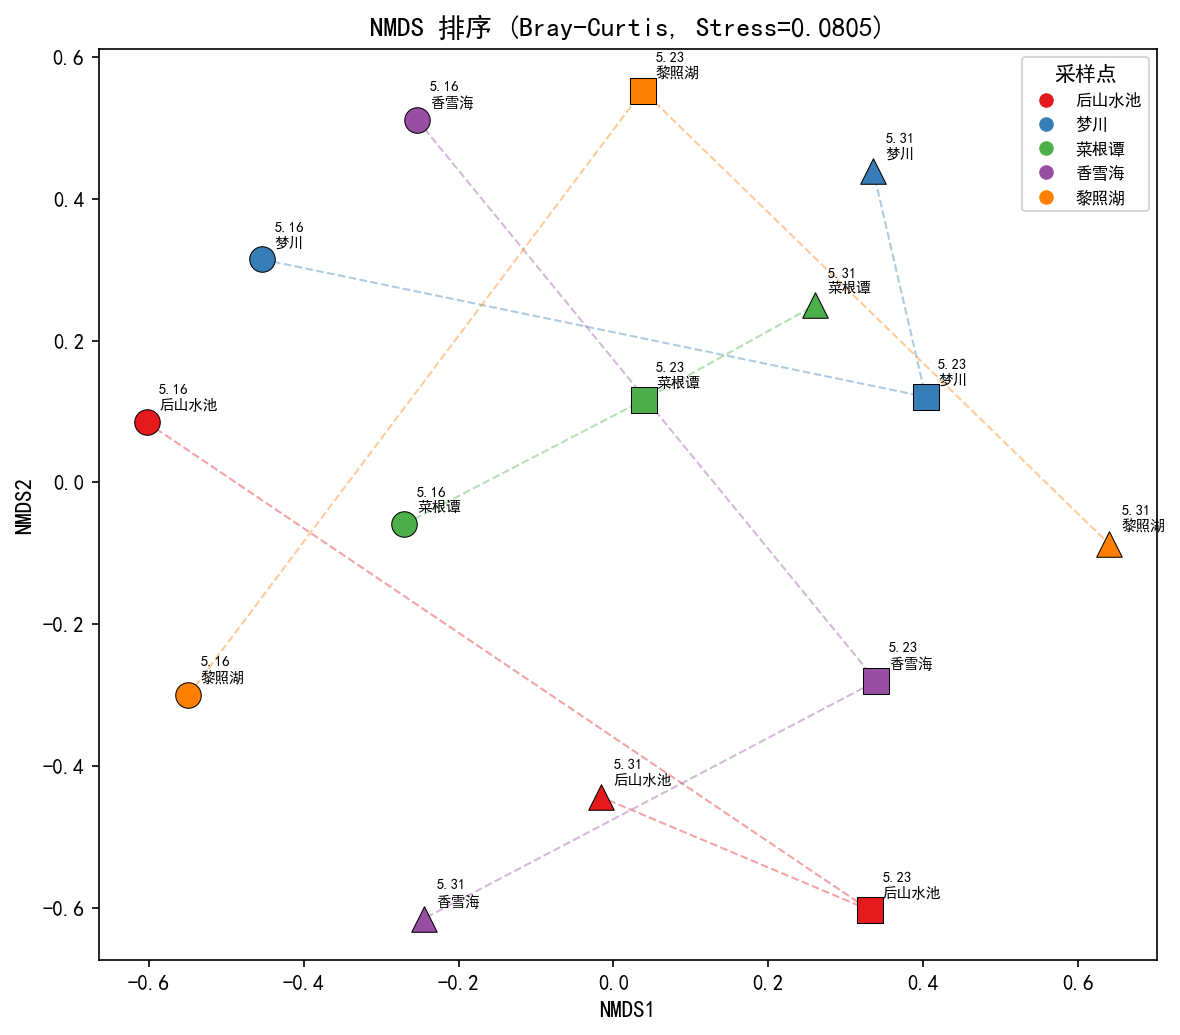
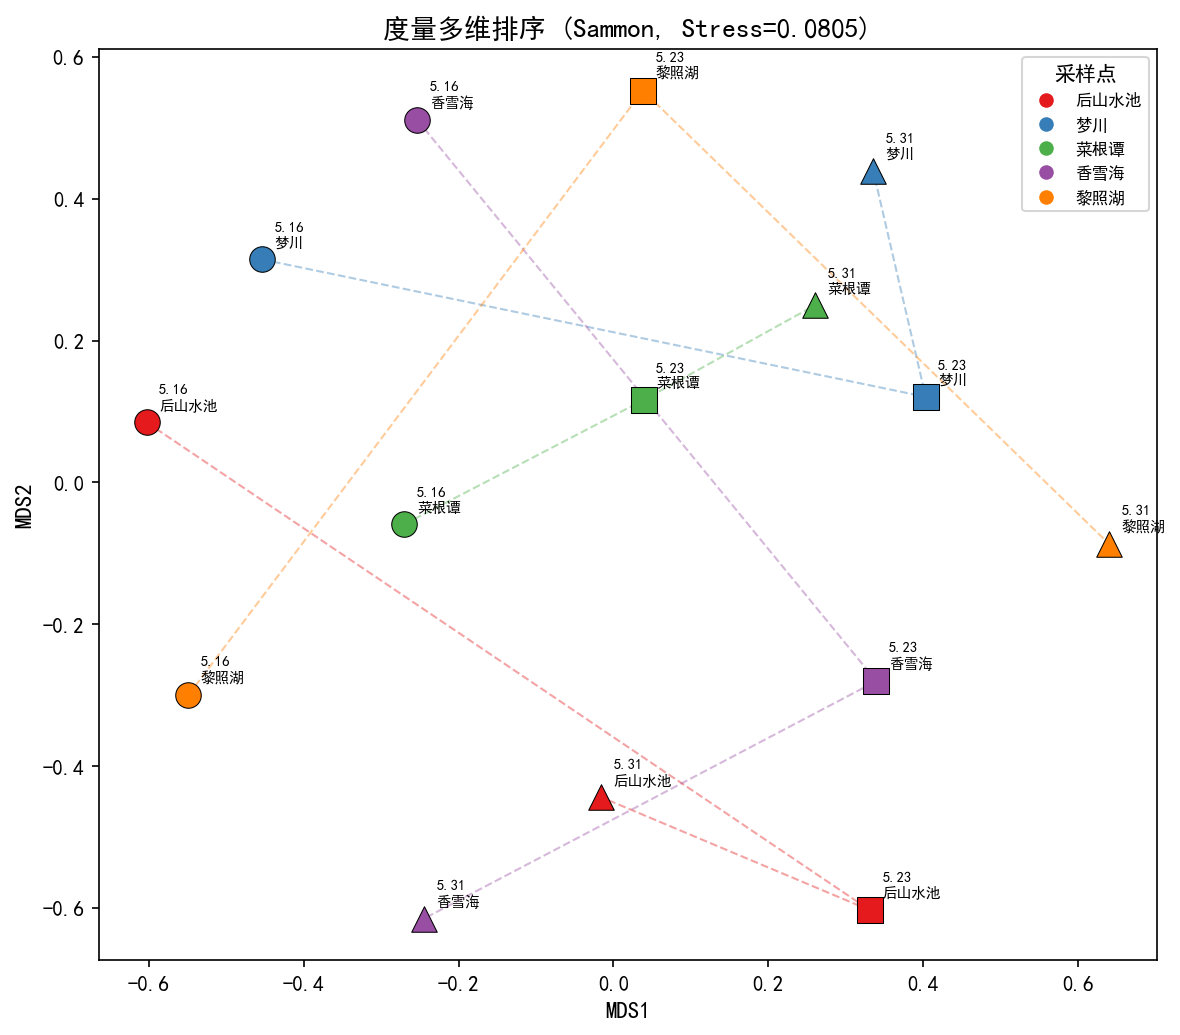
Fix: 彻底清除所有残留NMDS引用——标题/正文/图轴标签/代码注释统一为Sammon映射
- 正文残留'NMDS排序图中'→'排序图中'
- 图轴标签NMDS1/NMDS2→MDS1/MDS2
- 终端输出、注释、变量名全部同步
- 三处文件零NMDS残留

diff --git a/scripts/advanced_analysis.py b/scripts/advanced_analysis.py
@@ -6,7 +6,7 @@
 
 分析方法：
   1. PCA — 水质变量降维 + 与多样性指数的关联
-  2. NMDS — 基于物种组成 Bray-Curtis 距离的排序
+  2. 度量多维排序（Sammon映射）— 基于物种组成 Bray-Curtis 距离
   3. 聚类分析 — 样点物种组成的层次聚类
   4. 相关性分析 — 多样性指数 vs 环境因子矩阵
   5. 功能群分析 — 按门/类群汇总
@@ -208,10 +208,10 @@ plt.close()
 print("  → 图保存: pca_analysis.png")
 
 # ============================================================
-# 2. NMDS 非度量多维尺度分析
+# 2. 度量多维排序分析（Sammon 映射）
 # ============================================================
 print("\n" + "=" * 60)
-print("2. NMDS 排序分析")
+print("2. 度量多维排序（Sammon 映射）")
 print("=" * 60)
 
 def bray_curtis(x, y):
@@ -228,9 +228,9 @@ print(f"  Bray-Curtis 相异度矩阵 ({N}×{N}):")
 print(f"    均值={bc_dist[np.triu_indices(N,1)].mean():.3f}")
 print(f"    范围=[{bc_dist[np.triu_indices(N,1)].min():.3f}, {bc_dist[np.triu_indices(N,1)].max():.3f}]")
 
-# 简单 NMDS（迭代单调回归逼近，不做完整SMACOF，用PCoA初始解 + 迭代调整）
+# Sammon 映射（加权度量MDS，PCoA初始化 + 加权梯度下降）
 def simple_nmds(dist_mat, dims=2, max_iter=200, eps=1e-6):
-    """简化的 NMDS: PCoA 初始化 + 梯度下降"""
+    """Sammon 映射: PCoA 初始化 + 加权梯度下降 (w=1/d)"""
     n = dist_mat.shape[0]
     # 初始化: 用 PCoA (即经典MDS)
     d2 = dist_mat ** 2
@@ -281,9 +281,9 @@ def simple_nmds(dist_mat, dims=2, max_iter=200, eps=1e-6):
     return config, stress
 
 nmds_coords, nmds_stress = simple_nmds(bc_dist)
-print(f"  NMDS Stress = {nmds_stress:.4f}")
+print(f"  度量多维排序 Stress = {nmds_stress:.4f}")
 
-# NMDS 图
+# Sammon 排序图
 fig, ax = plt.subplots(figsize=(8, 7))
 for i, (date, loc) in enumerate(SAMPLES):
     ax.scatter(nmds_coords[i, 0], nmds_coords[i, 1],
@@ -299,9 +299,9 @@ for loc in loc_list:
     if len(pts) == 3:
         ax.plot(pts[:, 0], pts[:, 1], '--', color=loc_colors[loc], alpha=0.4, lw=1)
 
-ax.set_xlabel('NMDS1', fontsize=11)
-ax.set_ylabel('NMDS2', fontsize=11)
-ax.set_title(f'NMDS 排序 (Bray-Curtis, Stress={nmds_stress:.4f})', fontsize=13)
+ax.set_xlabel('MDS1', fontsize=11)
+ax.set_ylabel('MDS2', fontsize=11)
+ax.set_title(f'度量多维排序 (Sammon, Stress={nmds_stress:.4f})', fontsize=13)
 ax.legend(handles=l_leg, title='采样点', loc='best', fontsize=8)
 plt.tight_layout()
 plt.savefig(f"{OUT_DIR}/nmds_analysis.png", dpi=150, bbox_inches='tight')
@@ -583,7 +583,7 @@ print("\n" + "=" * 60)
 print("所有分析完成！")
 print(f"共生成 7 张图:")
 print("  1. pca_analysis.png        — PCA 主成分分析")
-print("  2. nmds_analysis.png       — NMDS 排序分析")
+print("  2. nmds_analysis.png       — 度量多维排序（Sammon 映射）")
 print("  3. cluster_analysis.png    — 层次聚类树状图")
 print("  4. correlation_heatmap.png — 相关性热力图")
 print("  5. functional_groups.png   — 功能群组成")

diff --git a/scripts/gen_report.py b/scripts/gen_report.py
@@ -178,7 +178,7 @@ for i in range(N):
     for j in range(N):
         bc_dist[i, j] = bray_curtis(species_mat[i], species_mat[j])
 
-# ── 按采样点构建聚合矩阵（提前计算，供NMDS/SIMPER共用）─
+# ── 按采样点构建聚合矩阵（提前计算，供排序/SIMPER共用）─
 loc_mats = {}
 for loc in LOCATIONS:
     indices = [i for i, (d, l) in enumerate(SAMPLES) if l == loc]
@@ -193,7 +193,7 @@ eigvals, eigvecs = eigvals[order], eigvecs[:, order]
 var_exp = eigvals / eigvals.sum() * 100
 pc_scores = env_std @ eigvecs
 
-# ── NMDS ─────────────────────────────────────────────
+# ── Sammon 映射（加权度量多维排序）─────────────────
 def simple_nmds(dist_mat, dims=2, max_iter=200, eps=1e-6):
     n = dist_mat.shape[0]
     d2 = dist_mat ** 2
@@ -382,10 +382,9 @@ for i, (date, loc) in enumerate(SAMPLES):
 kdom_results.sort(key=lambda x: x[2])
 kdom_steepest = kdom_results[0]  # 最陡峭的样本
 
-# ── NMDS 颜色映射（与 advanced_analysis.py 中一致）──
-NMDS_COLORS_HEX = ['#e41a1c', '#377eb8', '#4daf4a', '#984ea3', '#ff7f00']
-NMDS_COLORS_CN = ['红色', '蓝色', '绿色', '紫色', '橙色']
-loc_color_map = {loc: NMDS_COLORS_CN[i] for i, loc in enumerate(LOCATIONS)}
+# ── 排序图颜色映射（与 advanced_analysis.py 中一致）──
+SORT_COLORS_CN = ['红色', '蓝色', '绿色', '紫色', '橙色']
+loc_color_map = {loc: SORT_COLORS_CN[i] for i, loc in enumerate(LOCATIONS)}
 
 # ── 标准 Kruskal Stress-1（度量版本，供方法学参考）──
 cd_nmds = np.sqrt(np.sum((nmds_coords[:,None,:] - nmds_coords[None,:,:])**2, axis=2))
@@ -674,7 +673,7 @@ doc.add_page_break()
 # ════════════════════════════════════════════════════════
 h1('五、群落排序与分类')
 
-h2('5.1 NMDS 排序分析')
+h2('5.1 度量多维排序分析（Sammon 映射）')
 # 选BC最低的样点对（群落最相似）用于文字描述
 loc_bc_pairs = []
 for ia in range(len(LOCATIONS)):
@@ -698,7 +697,7 @@ doc.add_paragraph(
 
 add_fig(os.path.join(FIG_DIR, "nmds_analysis.png"), Inches(5.5))
 doc.add_paragraph(
-    f'NMDS排序图中虚线连接同一采样点的三次调查样本，显示各采样点群落的时间演替轨迹。'
+    f'排序图中虚线连接同一采样点的三次调查样本，显示各采样点群落的时间演替轨迹。'
     f'{most_similar[0]}（{loc_color_map[most_similar[0]]}）和{most_similar[1]}'
     f'（{loc_color_map[most_similar[1]]}）在空间中位置最为接近'
     f'（BC={most_similar[2]:.3f}，为各采样点对中最低），'